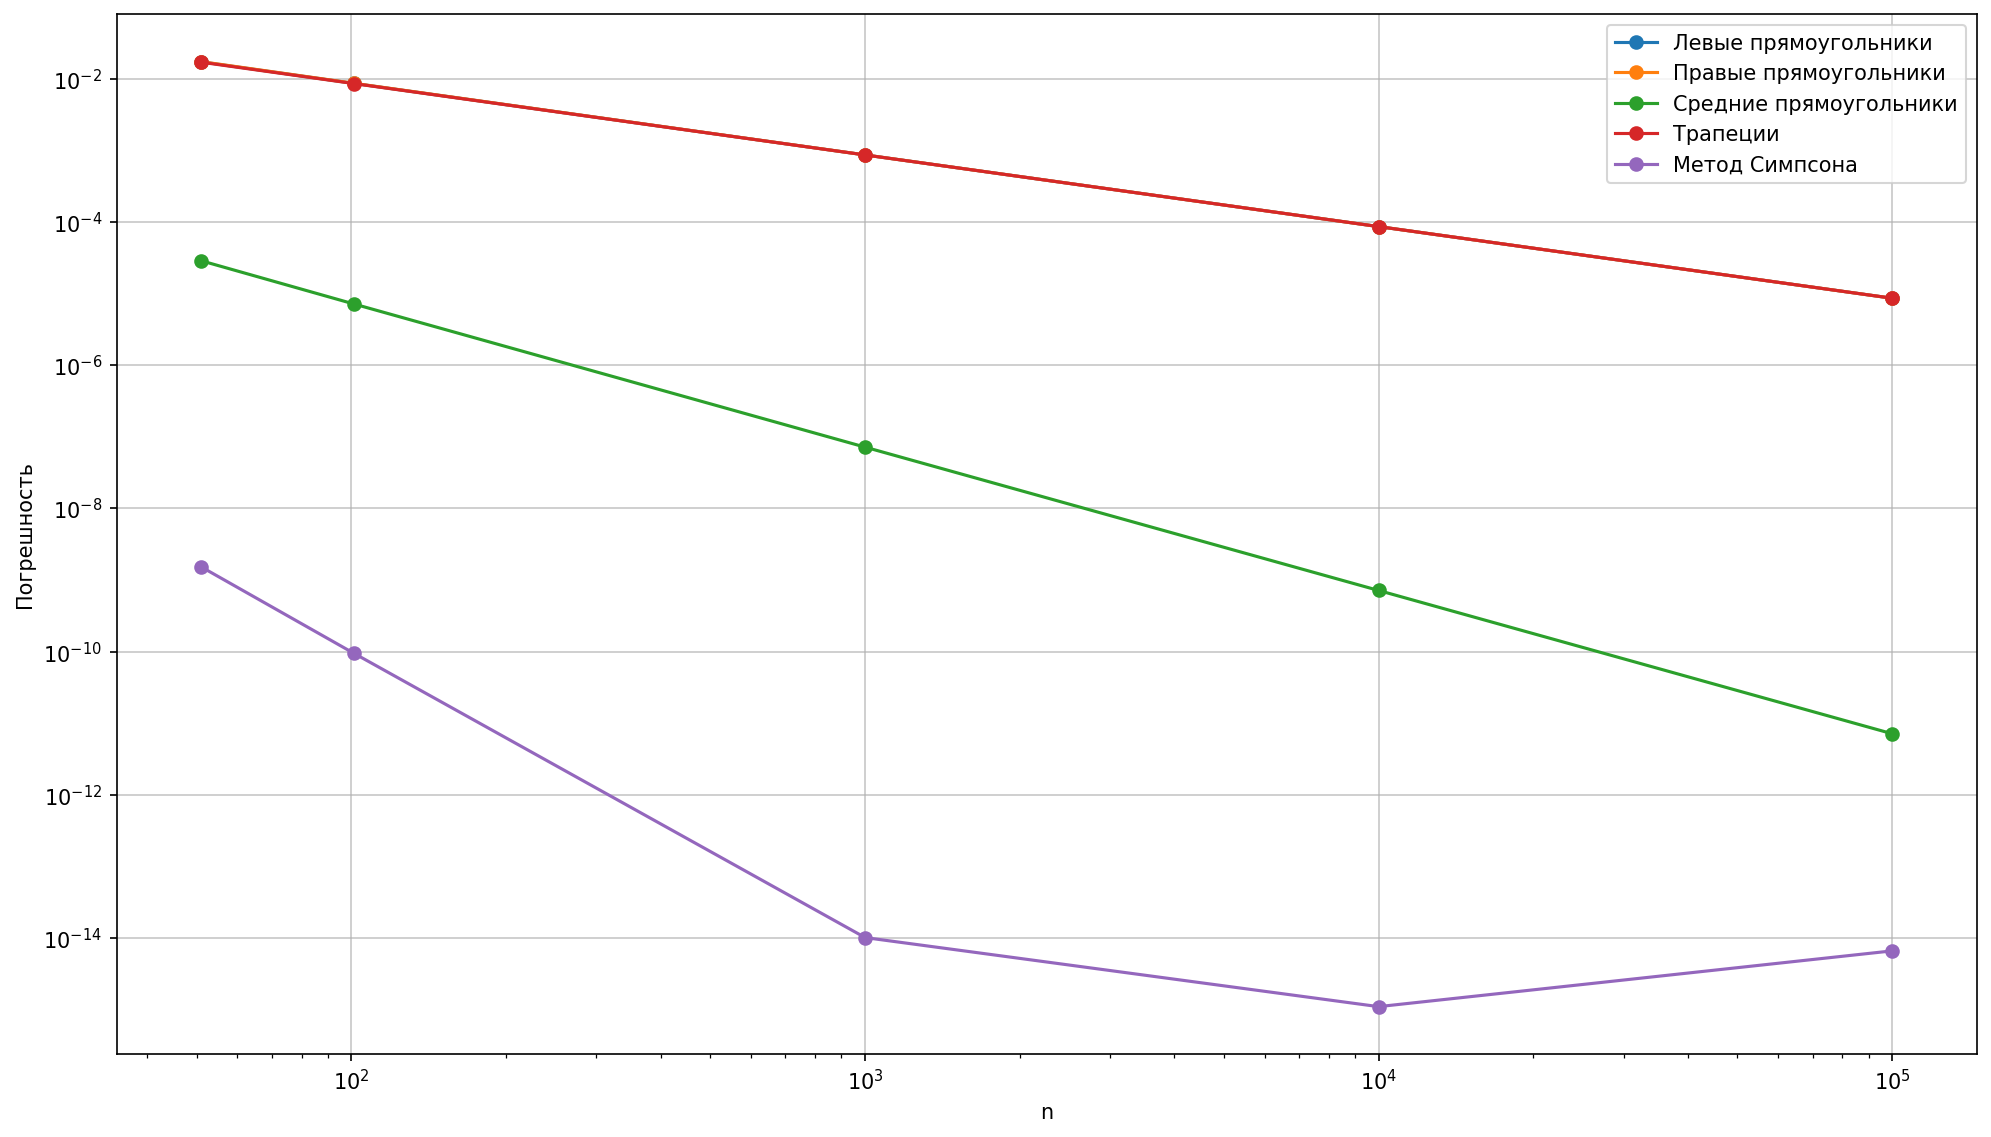
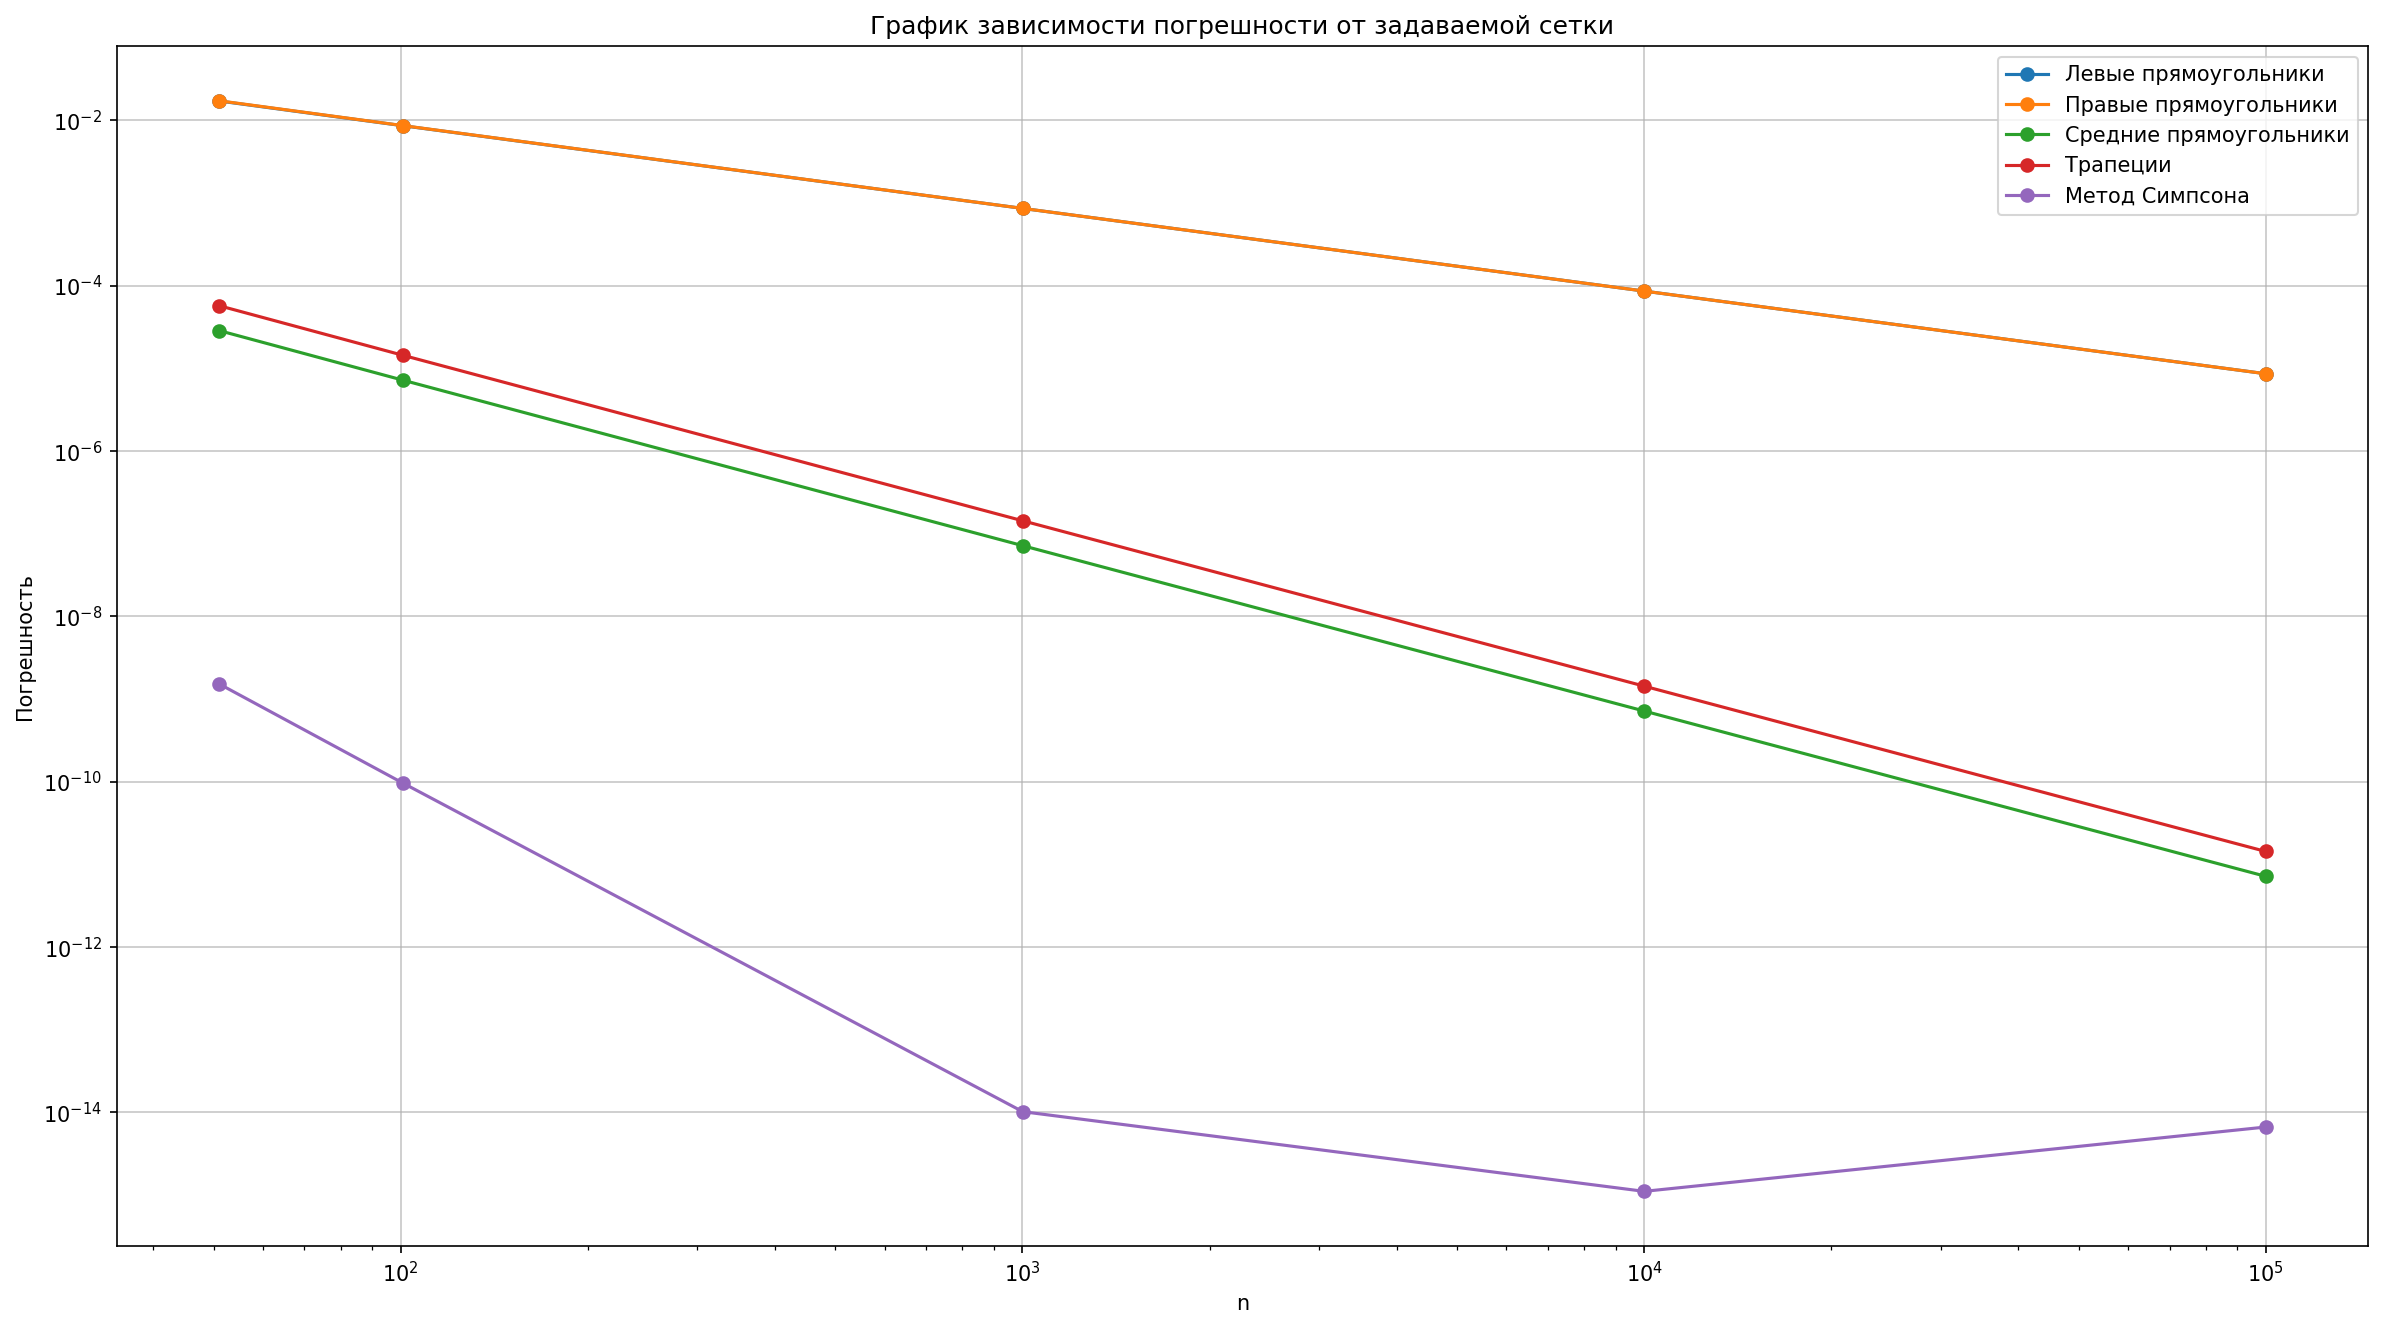
Методы интегрирования
Поправил пару косяков

diff --git a/b24-601/student-11/Classwork Integration/main.py b/b24-601/student-11/Classwork Integration/main.py
@@ -43,7 +43,7 @@ print(f"{names[0]}:   {results[0]}\n"
       f"{names[1]}:  {results[1]}\n"
       f"{names[2]}: {results[2]}\n"
       f"{names[3]}:               {results[3]}\n"
-      f"{names[4]}:        {results[4]}\n")
+      f"{names[4]}:         {results[4]}\n")
 
 errors = np.abs(results - real)
 
@@ -54,7 +54,9 @@ for j, name in enumerate(names):
 
 plt.xlabel("n")
 plt.ylabel("Погрешность")
+plt.title("График зависимости погрешности от задаваемой сетки")
 plt.legend()
 plt.grid(alpha=0.7)
+plt.tight_layout()
 plt.savefig(graph / "errors.png", dpi=150, bbox_inches="tight")
 plt.show()

diff --git a/b24-601/student-11/Classwork Integration/integration_methods/trapezoid.py b/b24-601/student-11/Classwork Integration/integration_methods/trapezoid.py
@@ -8,4 +8,4 @@ def integrate_trapezoid(
 ) -> float:
     sumi = sum(function(x) for x in nodes[1:-1])
     h = nodes[1] - nodes[0]
-    return float(h*(function(nodes[0])/2 + sumi + function(nodes[1])/2))
+    return float(h*(function(nodes[0])/2 + sumi + function(nodes[-1])/2))
